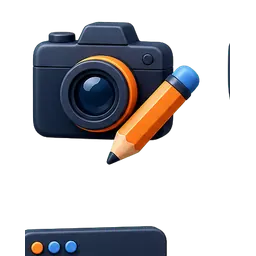
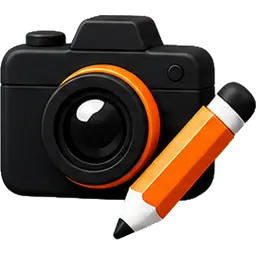
Align website with brand color palette

diff --git a/app/globals.css b/app/globals.css
@@ -1,4 +1,4 @@
-:root{--orange:#ff6b00;--orange-dark:#e75f00;--ink:#121212;--white:#fff;--cream:#f6f3ee;--soft:#faf9f7;--line:#e7e2dc;--muted:#676767;--body:Inter,Arial,sans-serif;--head:Manrope,"Arial Black",Arial,sans-serif}*{box-sizing:border-box}html{scroll-behavior:smooth}body{margin:0;color:var(--ink);background:#fff;font-family:var(--body);-webkit-font-smoothing:antialiased}h1,h2,h3{font-family:var(--head);letter-spacing:-.045em;margin-top:0}p{color:var(--muted);line-height:1.72}a{text-decoration:none;color:inherit}.wrap{width:min(1180px,calc(100% - 48px));margin-inline:auto}
+:root{--orange:#ff6b00;--orange-dark:#e75f00;--ink:#000;--white:#fff;--cream:#fff;--soft:#fff;--line:#00000020;--muted:#000000a6;--body:Inter,Arial,sans-serif;--head:Manrope,"Arial Black",Arial,sans-serif}*{box-sizing:border-box}html{scroll-behavior:smooth}body{margin:0;color:var(--ink);background:#fff;font-family:var(--body);-webkit-font-smoothing:antialiased}h1,h2,h3{font-family:var(--head);letter-spacing:-.045em;margin-top:0}p{color:var(--muted);line-height:1.72}a{text-decoration:none;color:inherit}.wrap{width:min(1180px,calc(100% - 48px));margin-inline:auto}
 header{height:84px;background:#fff;position:sticky;top:0;z-index:50;border-bottom:1px solid var(--line)}.nav{height:100%;display:flex;align-items:center;gap:44px}.logo{display:flex;align-items:center;gap:8px;font:800 19px var(--head);letter-spacing:-.04em}.logo b{background:var(--orange);color:#fff;padding:5px 7px;border-radius:2px}.logo span{font-size:13px;letter-spacing:.12em}.nav nav{display:flex;align-items:center;gap:34px;margin-left:auto}.nav nav>a,.nav summary{font-size:14px;font-weight:650;cursor:pointer;list-style:none}.nav summary::-webkit-details-marker{display:none}.nav summary i{color:var(--orange);font-style:normal;margin-left:3px}.desktop-services{position:relative}.desktop-services-menu{display:none;position:absolute;top:28px;left:-24px;width:285px;background:#fff;padding:14px;box-shadow:0 18px 50px #1919191c;border:1px solid var(--line)}.desktop-services[open] .desktop-services-menu{display:grid}.desktop-services-menu a{padding:10px 12px;color:#555;font-size:13px}.desktop-services-menu a:hover{background:var(--cream);color:var(--orange)}.desktop-services-menu .all{border-top:1px solid var(--line);margin-top:7px;padding-top:14px;color:var(--orange);font-weight:750}.button{border:0;border-radius:2px;background:var(--orange);color:#fff;display:inline-flex;align-items:center;justify-content:center;gap:16px;padding:15px 23px;font:750 14px var(--body);transition:.22s}.button span{font-size:17px}.button:hover{background:var(--orange-dark);transform:translateY(-2px)}.nav-cta{padding:12px 20px}.mobile-menu{display:none}
 .hero{padding:92px 0 108px;overflow:hidden}.hero-grid{display:grid;grid-template-columns:1.03fr .97fr;gap:72px;align-items:center}.hero-copy{padding:18px 0}.kicker{display:inline-flex;align-items:center;gap:8px;color:var(--orange);font-size:11px;font-weight:850;letter-spacing:.16em;text-transform:uppercase}.kicker:before{content:"";width:22px;height:2px;background:currentColor}.hero h1,.page-top h1{font-size:clamp(50px,5.7vw,78px);line-height:1.02;margin:20px 0 26px}.hero p{font-size:17px;max-width:600px;margin:0}.buttons{display:flex;align-items:center;gap:28px;margin-top:34px}.text-button,.text-link{font-weight:750;font-size:14px}.hero-art{height:525px;background:var(--cream);position:relative;display:grid;place-items:center;border-radius:2px;isolation:isolate}.hero-art:after{content:"";position:absolute;width:310px;height:310px;background:var(--orange);border-radius:50%;z-index:-1}.hero-orbit{position:absolute;border:1px solid #e3dcd2;border-radius:50%;z-index:-1}.orbit-one{width:430px;height:430px}.orbit-two{width:570px;height:570px}.phone{width:260px;background:var(--ink);padding:18px;border-radius:26px;color:#fff;transform:rotate(3deg);box-shadow:0 32px 65px #0004}.phone-head{display:flex;justify-content:space-between;font-size:11px;margin-bottom:18px}.phone-head b{color:var(--orange)}.growth{background:#272727;border-radius:14px;padding:18px}.growth small,.metrics small{display:block;color:#aaa;font-size:10px}.growth strong{display:block;font:800 27px var(--head);color:#fff;margin-top:4px}.bars{height:105px;display:flex;align-items:end;gap:7px;margin-top:13px}.bars i{flex:1;background:var(--orange);border-radius:2px 2px 0 0}.metrics{display:grid;grid-template-columns:1fr 1fr;gap:8px;margin-top:9px}.metrics span{background:#fff;color:var(--ink);padding:12px;border-radius:10px}.metrics b{display:block;font:800 18px var(--head);margin-top:4px}.float{position:absolute;background:#fff;padding:12px 16px;border-radius:2px;font-size:11px;font-weight:800;box-shadow:0 15px 35px #0002}.f1{top:86px;left:18px;color:var(--orange)}.f2{right:12px;bottom:92px}
 section{padding:100px 0}.cream{background:var(--cream)}.section-head{display:grid;grid-template-columns:1fr .72fr;gap:74px;align-items:end;margin-bottom:50px}.section-head h2,h2{font-size:clamp(36px,4.2vw,55px);line-height:1.08;margin:12px 0 0}.section-head p{font-size:16px;margin:0}.service-grid{display:grid;grid-template-columns:1fr 1fr;gap:24px}.service{background:#fff;border:1px solid var(--line);display:grid;grid-template-columns:.9fr 1.1fr;min-height:330px;transition:.25s}.service:hover,.post:hover{transform:translateY(-5px);box-shadow:0 22px 50px #1b17100d}.service-visual{background:#f6e8dd;display:grid;place-items:center;overflow:hidden}.visual-mark{width:120px;height:120px;display:grid;place-items:center;background:var(--orange);border-radius:50%;color:#fff;font:800 65px var(--head);transform:rotate(-8deg)}.visual-mark .service-ai-icon{width:112px;height:112px;object-fit:contain;transform:rotate(8deg)}.v1{background:#171717}.v1 .visual-mark{background:#fff;color:var(--orange)}.v2{background:#ffe0c9}.v2 .visual-mark{border-radius:4px}.v3{background:#e9e6e1}.v3 .visual-mark{background:var(--ink)}.service-copy{position:relative;padding:31px 28px;display:flex;flex-direction:column}.service-no{font-size:10px;color:#aaa;letter-spacing:.12em}.service h3{font-size:24px;line-height:1.18;margin:35px 0 10px}.service p{font-size:14px;line-height:1.65;margin:0}.circle-arrow{margin-top:auto;width:38px;height:38px;border:1px solid var(--line);border-radius:50%;display:grid;place-items:center;color:var(--orange)}.text-link{display:flex;width:max-content;align-items:center;gap:12px;margin:38px auto 0;border-bottom:1px solid var(--ink);padding-bottom:5px}.text-link span{color:var(--orange)}
@@ -10,3 +10,26 @@ section{padding:100px 0}.cream{background:var(--cream)}.section-head{display:gri
 
 /* Minimal service page */
 .minimal-service section{padding:0}.service-narrow{width:min(800px,calc(100% - 40px));margin-inline:auto}.minimal-service-intro{padding:92px 0 70px!important;background:var(--cream)}.minimal-service-intro h1{font-size:clamp(45px,6vw,72px);line-height:1.04;margin:20px 0 22px}.service-description{font-size:18px;max-width:720px;margin:0}.service-price{border-left:3px solid var(--orange);padding:5px 0 5px 20px;margin-top:34px;display:grid;gap:5px}.service-price small{font-size:11px;font-weight:800;letter-spacing:.1em;text-transform:uppercase;color:var(--muted)}.service-price strong{font:750 24px var(--head)}.service-price p{font-size:13px;margin:2px 0 0;line-height:1.5}.service-price .external-cost-note{color:#8a4a1b}.minimal-included{padding:72px 0 82px!important}.minimal-included h2{font-size:clamp(34px,4vw,48px);margin-bottom:35px}.service-checklist{display:grid;gap:0;border-top:1px solid var(--line)}.checklist-item{display:flex;align-items:center;gap:16px;padding:19px 4px;border-bottom:1px solid var(--line)}.checklist-item>span{width:27px;height:27px;border-radius:50%;background:#fff0e5;color:var(--orange);display:grid;place-items:center;font-size:13px;font-weight:900;flex:none}.checklist-item strong{font:650 16px var(--body)}.minimal-consultation{padding:75px 0 82px!important;background:var(--orange);color:#fff;text-align:left}.minimal-consultation h2{font-size:clamp(34px,4vw,48px);margin:0 0 15px}.minimal-consultation p{color:#fff;max-width:650px;margin:0 0 28px}.pricing-admin{border:1px solid #ffd5b8;background:#fffaf6;border-radius:10px;padding:18px;display:grid;gap:14px}.cms-three{display:grid;grid-template-columns:1fr 1fr 1fr;gap:10px}@media(max-width:640px){.minimal-service-intro{padding:65px 0 52px!important}.minimal-included{padding:55px 0 62px!important}.minimal-consultation{padding:58px 0 64px!important}.service-description{font-size:16px}.cms-three{grid-template-columns:1fr}}
+
+/* SMM Tanzania brand palette: orange, black and pure white only. */
+.desktop-services-menu a:hover{background:#ff6b0012}
+.hero-art{background:#fff;border:1px solid var(--line)}
+.hero-orbit{border-color:#00000020}
+.growth{background:#000}
+.growth small,.metrics small{color:#ffffffa6}
+.service-visual{background:#fff}
+.v1{background:#000}
+.v2{background:var(--orange)}
+.v3{background:#fff}
+.v3 .visual-mark{background:#000}
+.p1{background:#fff;color:#000}
+.p3{background:#000}
+.quotes blockquote{background:#fff;border:1px solid var(--line)}
+.page-top{background:#fff;border-bottom:1px solid var(--line)}
+.form-layout form{background:#fff;border:1px solid var(--line)}
+input,textarea,select{border-color:var(--line)}
+.site-footer{background:#000}
+.whatsapp{background:var(--orange)}
+.service-price .external-cost-note{color:#000}
+.checklist-item>span{background:#ff6b0018}
+.pricing-admin{border-color:#ff6b0060;background:#fff}

diff --git a/app/coming-soon.css b/app/coming-soon.css
@@ -1,4 +1,4 @@
-body:has(.coming-soon){background:#0b0f19}
+body:has(.coming-soon){background:#000}
 body:has(.coming-soon)>header,
 body:has(.coming-soon)>.site-footer,
 body:has(.coming-soon)>.whatsapp{display:none}
@@ -11,10 +11,10 @@ body:has(.coming-soon)>main{min-height:100svh}
   display:grid;
   place-items:center;
   padding:80px 24px;
-  color:#f7f9ff;
+  color:#fff;
   background:
     radial-gradient(circle at 50% 48%,rgba(255,255,255,.025),transparent 34%),
-    #0b0f19;
+    #000;
   isolation:isolate;
   text-align:center;
   font-family:Inter,ui-sans-serif,-apple-system,BlinkMacSystemFont,"Segoe UI",sans-serif;
@@ -56,14 +56,14 @@ body:has(.coming-soon)>main{min-height:100svh}
 }
 .coming-soon h2{
   margin:30px 0 0;
-  color:#d9deeb;
+  color:rgba(255,255,255,.88);
   font:500 clamp(18px,2.1vw,25px)/1.4 Inter,ui-sans-serif,-apple-system,BlinkMacSystemFont,"Segoe UI",sans-serif;
   letter-spacing:-.02em;
 }
 .coming-soon p{
   margin:25px auto 0;
   max-width:670px;
-  color:#8f98ab;
+  color:rgba(255,255,255,.62);
   font-size:clamp(14px,1.35vw,16px);
   line-height:1.9;
 }
@@ -73,7 +73,7 @@ body:has(.coming-soon)>main{min-height:100svh}
   right:20px;
   bottom:max(26px,env(safe-area-inset-bottom));
   left:20px;
-  color:#596174;
+  color:rgba(255,255,255,.42);
   font-size:11px;
   letter-spacing:.04em;
   animation:coming-fade 1.1s .25s cubic-bezier(.22,1,.36,1) both;
@@ -88,7 +88,7 @@ body:has(.coming-soon)>main{min-height:100svh}
   opacity:.16;
   pointer-events:none;
 }
-.coming-glow-blue{top:-36%;left:-18%;background:#277cff}
+.coming-glow-blue{top:-36%;left:-18%;background:#fff;opacity:.06}
 .coming-glow-orange{right:-22%;bottom:-42%;background:#ff6b00}
 .coming-particles{position:absolute;inset:0;z-index:1;pointer-events:none}
 .coming-particles i{
@@ -96,7 +96,7 @@ body:has(.coming-soon)>main{min-height:100svh}
   width:3px;
   height:3px;
   border-radius:50%;
-  background:#a9c6ff;
+  background:#fff;
   box-shadow:0 0 12px currentColor;
   opacity:.24;
   animation:coming-float 8s ease-in-out infinite alternate;
